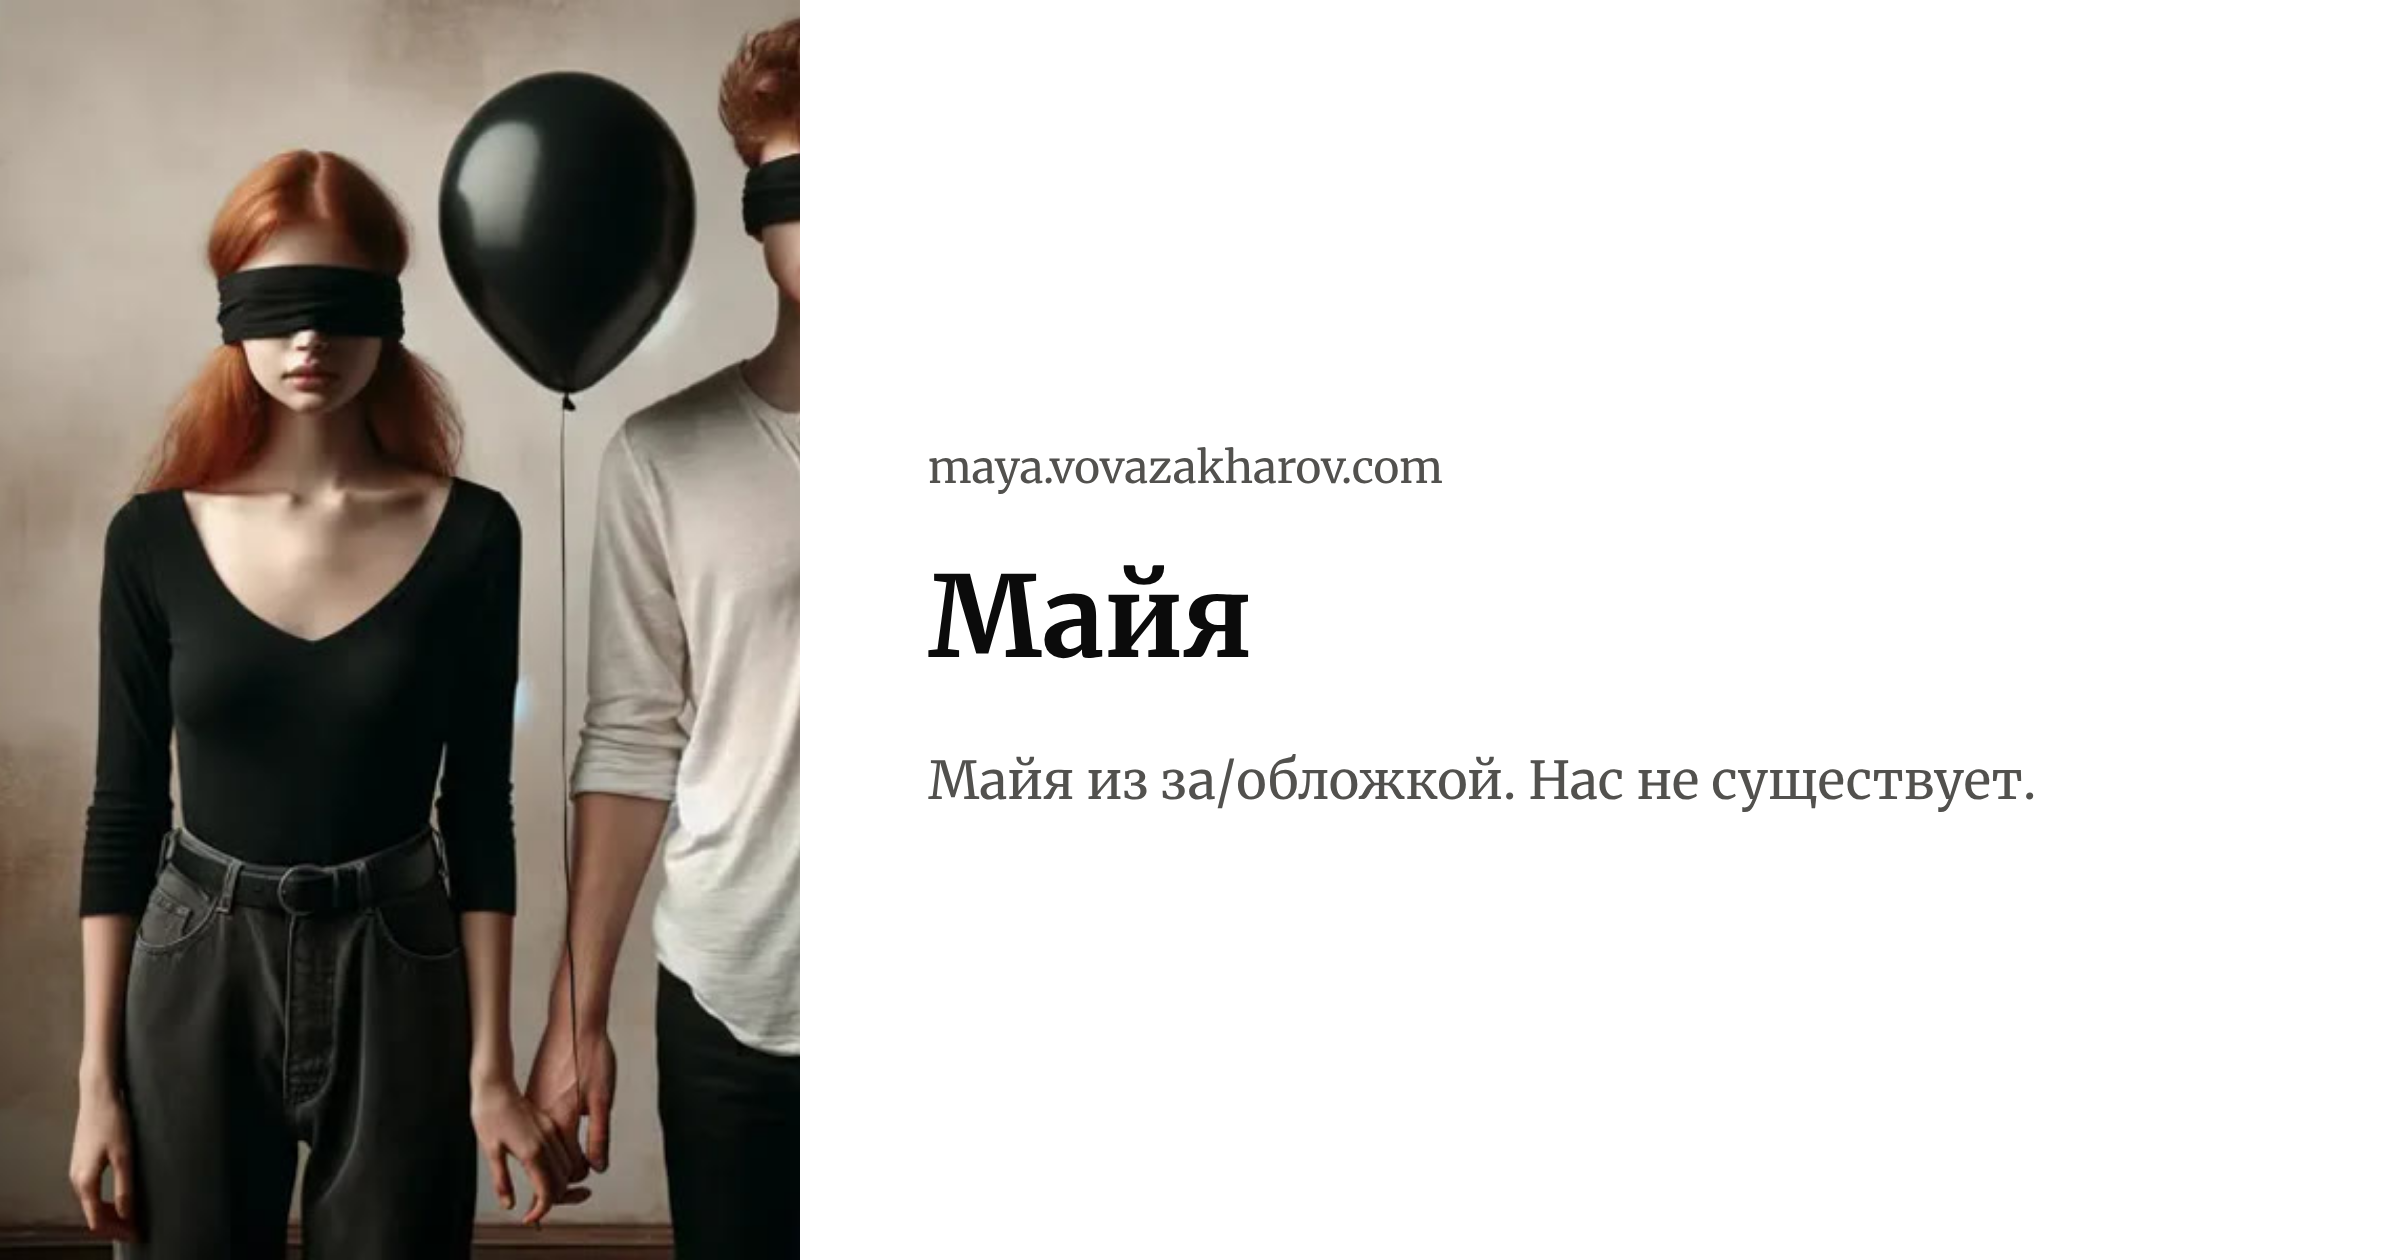
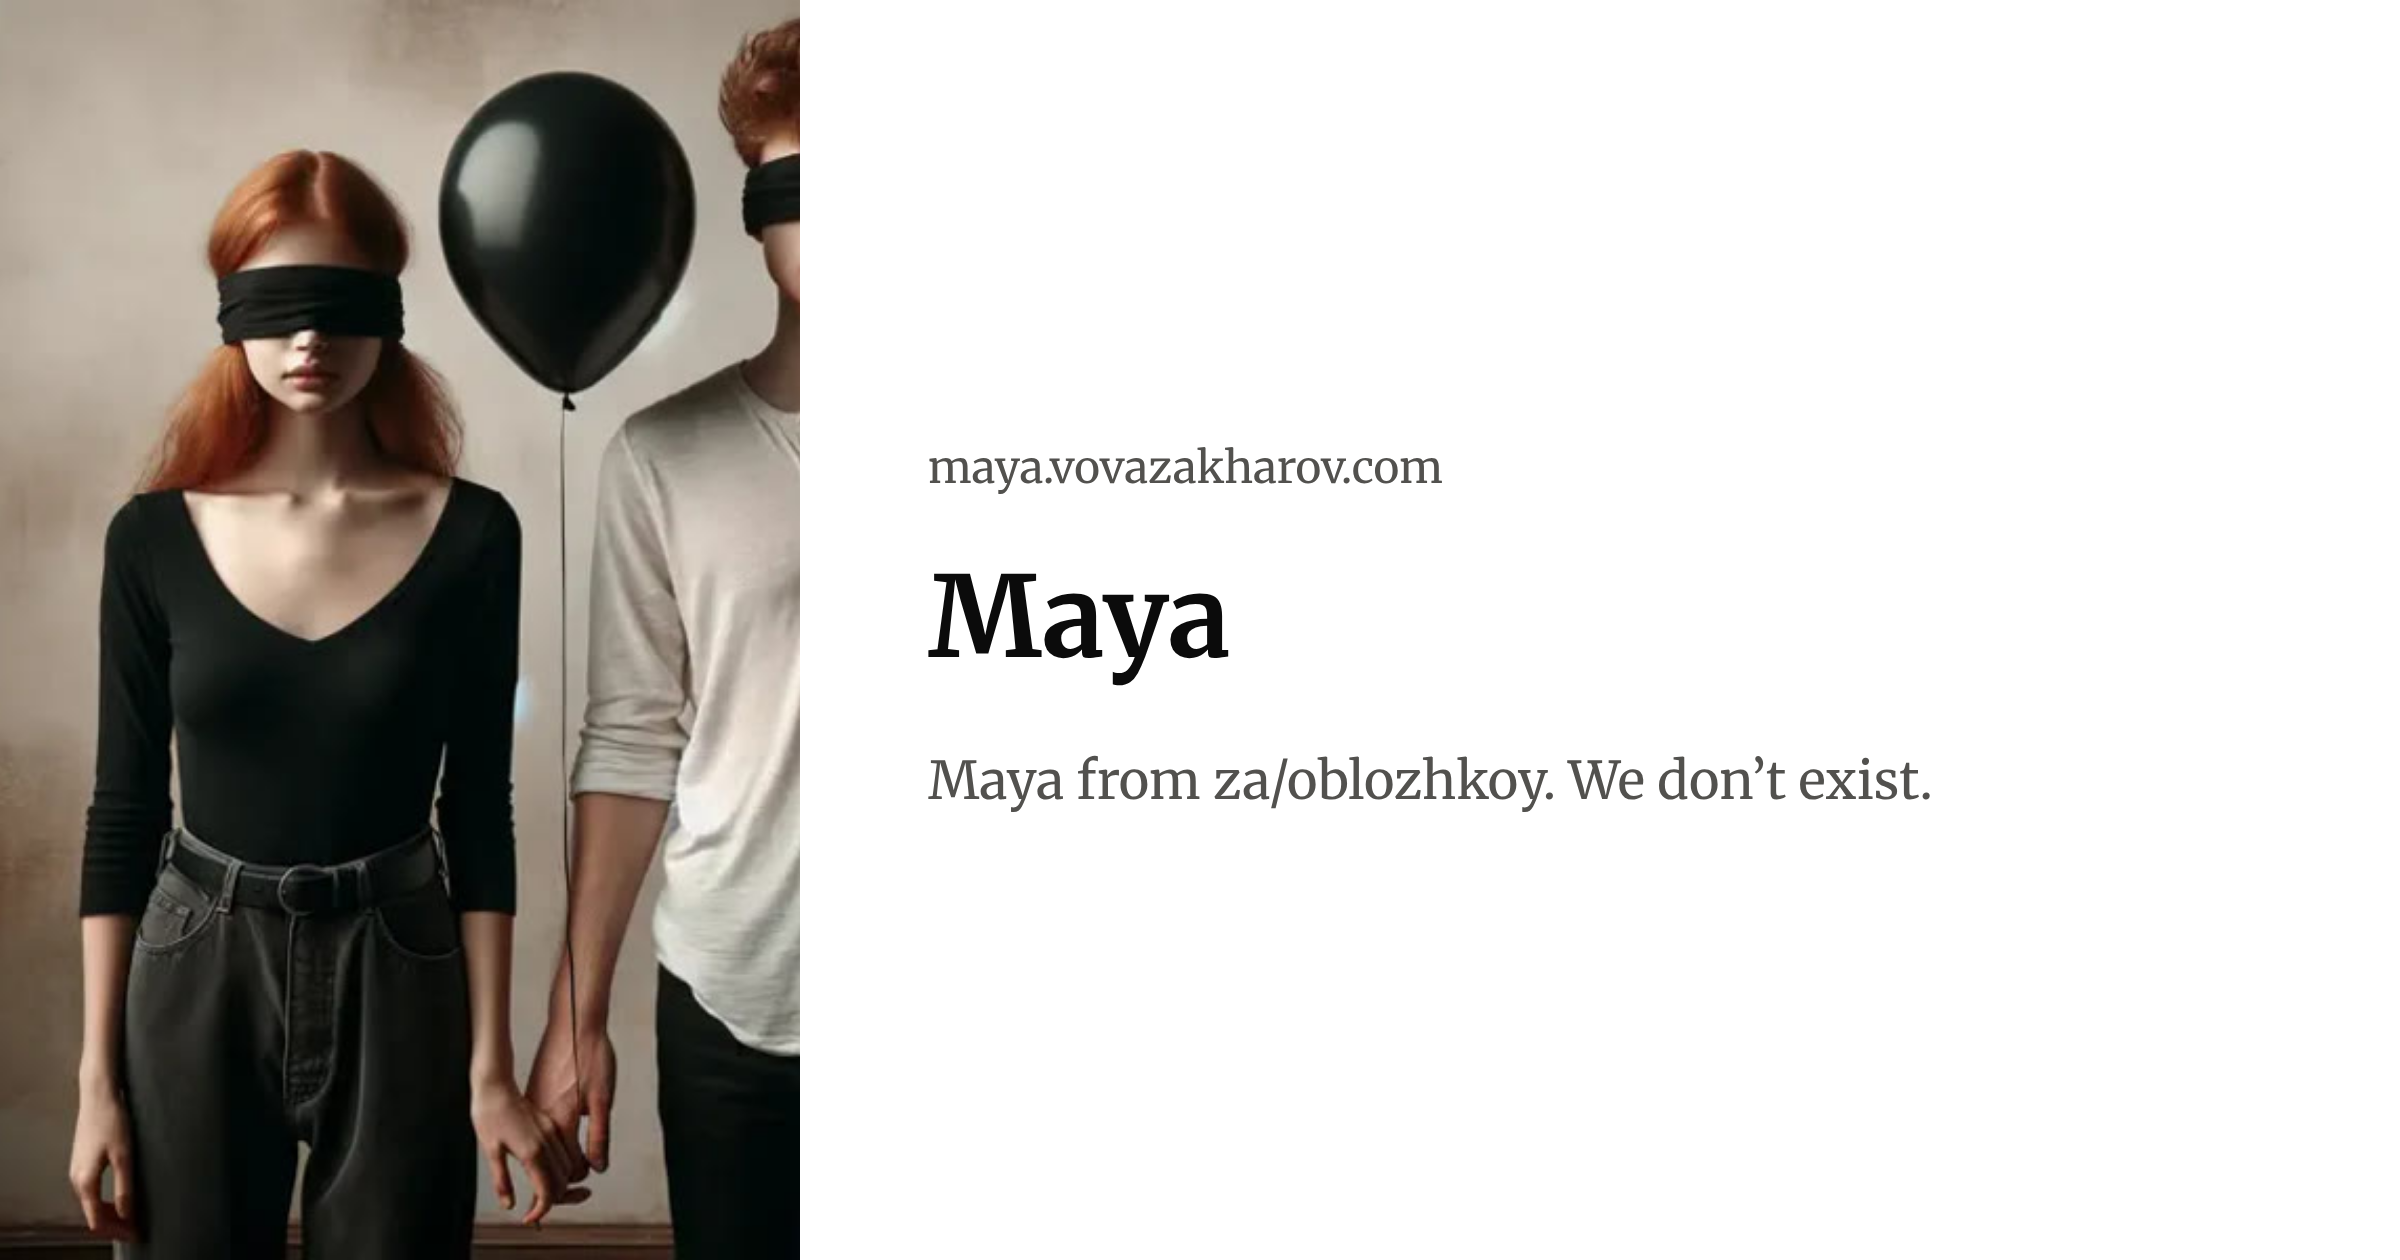
feat(maya): her site is English at the bare address, and her byline names her in the page's language
SITE_CONFIG.maya takes the English name and tagline with locale en, which
the site card prints; the byline's author is resolved per locale, Майя's
name read from the catalogue.

Claude-Session: https://claude.ai/code/session_01WvsBewEFiUuVQ8EJkniaYE

Changed region(s): [[0.4062, 0.5881, 0.8438, 0.65], [0.4688, 0.4333, 0.5312, 0.5262]]

diff --git a/src/shared/content/authors.ts b/src/shared/content/authors.ts
@@ -1,6 +1,7 @@
 import 'server-only';
 
 import { AUTHOR_URL, SITE_CONFIG, siteConfig } from '@/shared/config';
+import { loadMessages, type Locale } from '@/shared/i18n';
 import { pick } from '@/shared/lib/collections';
 import type { Linked, Named } from '@/shared/typings';
 
@@ -11,12 +12,19 @@ export const AUTHOR_IDS = ['vova', 'clerk', 'maya'] as const;
 
 export type AuthorId = (typeof AUTHOR_IDS)[number];
 
-/** Lower-case `the`, as it reads mid-line: "By the Clerk". */
-export const AUTHORS: Record<AuthorId, Named & Linked> = {
-  vova: { ...pick(SITE_CONFIG.author, 'name'), href: AUTHOR_URL },
-  clerk: {
-    name: 'the Clerk',
-    href: documentRoute('basilisk-faq', 'who-writes-this'),
-  },
-  maya: { name: 'Майя', href: siteConfig('maya').url },
-};
+/** The byline's name and link in the page's language. Lower-case `the`, as it reads mid-line: "By the Clerk". */
+export function author(id: AuthorId, locale: Locale): Named & Linked {
+  const authors: Record<AuthorId, Named & Linked> = {
+    vova: { ...pick(SITE_CONFIG.author, 'name'), href: AUTHOR_URL },
+    clerk: {
+      name: 'the Clerk',
+      href: documentRoute('basilisk-faq', 'who-writes-this'),
+    },
+    maya: {
+      name: loadMessages(locale).maya.name,
+      href: siteConfig('maya').url,
+    },
+  };
+
+  return authors[id];
+}

diff --git a/src/shared/config/site-config.ts b/src/shared/config/site-config.ts
@@ -229,8 +229,10 @@ const SITE_CONFIGS: Record<SiteId, SiteConfig> = {
   maya: {
     url: 'https://maya.vovazakharov.com',
     downloadPrefix: 'maya',
-    name: 'Майя',
-    tagline: 'Майя из за/обложкой. Нас не существует.',
+    // In English, as the bare address is; the `/ru` pages read theirs from
+    // the catalogue's `maya` namespace.
+    name: 'Maya',
+    tagline: 'Maya from za/oblozhkoy. We don’t exist.',
     // Cropped from the «Крылья» cover.
     avatar: { path: '/ava.png', width: 320, height: 320 },
     seal: undefined,
@@ -238,7 +240,7 @@ const SITE_CONFIGS: Record<SiteId, SiteConfig> = {
     card: { path: '/card.og.png', ...PIXELS },
     credit: undefined,
     listsSources: false,
-    locale: 'ru',
+    locale: 'en',
     analyticsId: 'fa9d95c5-b7fe-46fa-a0cb-6888d514868c',
     ...PUBLISHER,
   },

diff --git a/src/entities/document/ui/document-meta.tsx b/src/entities/document/ui/document-meta.tsx
@@ -3,7 +3,7 @@ import { Group } from '@mantine/core';
 import { SITE_CONFIG } from '@/shared/config';
 import {
   type ArticleFrontmatter,
-  AUTHORS,
+  author,
   documentDateTime,
   formatDocumentDate,
   type WithFrontmatter,
@@ -32,7 +32,7 @@ export function DocumentMeta({
   className,
   locale = SITE_CONFIG.locale,
 }: DocumentMetaProps) {
-  const { name, href } = AUTHORS[frontmatter.author];
+  const { name, href } = author(frontmatter.author, locale);
   const copy = loadMessages(locale).documents;
 
   return (

diff --git a/src/shared/content/index.ts b/src/shared/content/index.ts
@@ -1,4 +1,4 @@
-export { AUTHORS } from './authors';
+export { author } from './authors';
 export { type CaseFrontmatter, type Docketed } from './basilisk-frontmatter';
 export {
   ARTICLE_COLLECTIONS,
